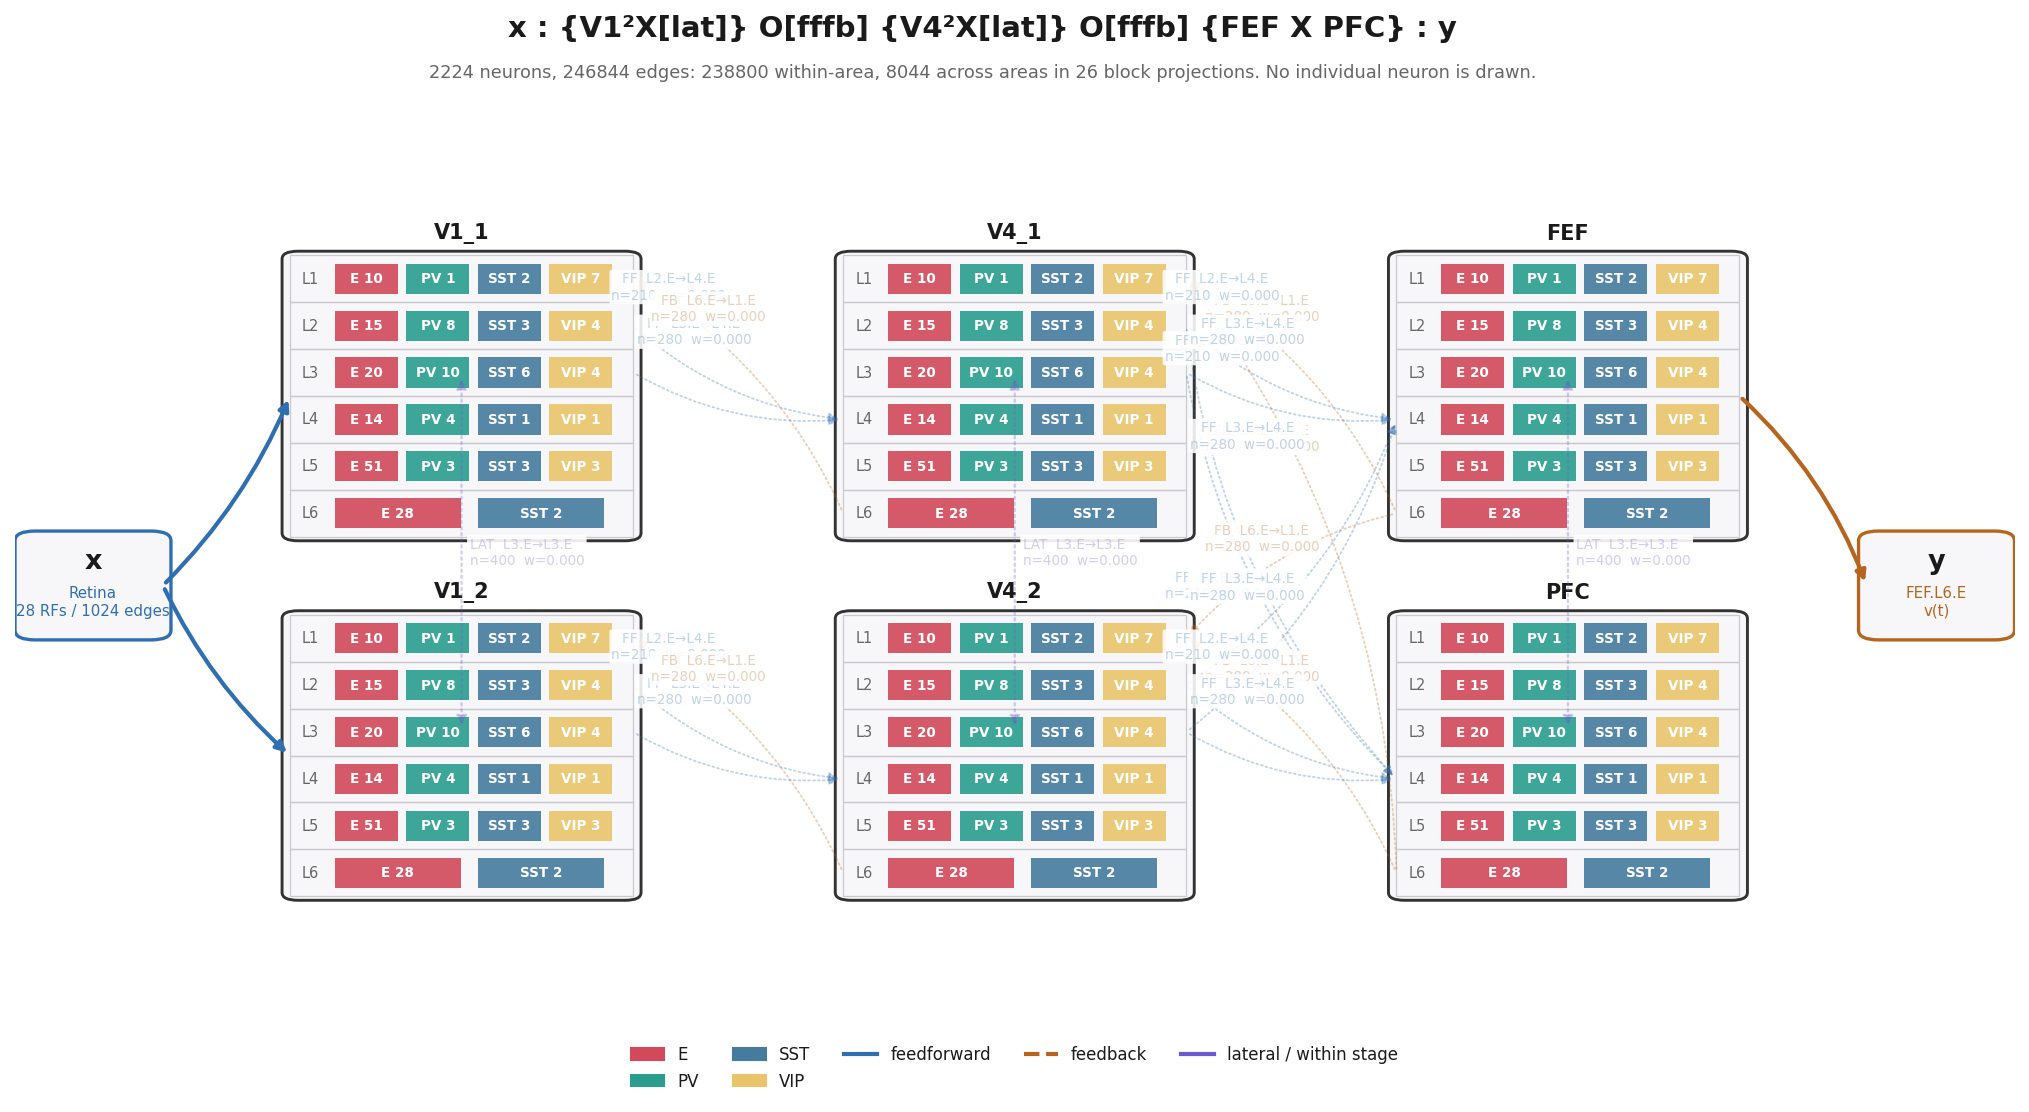
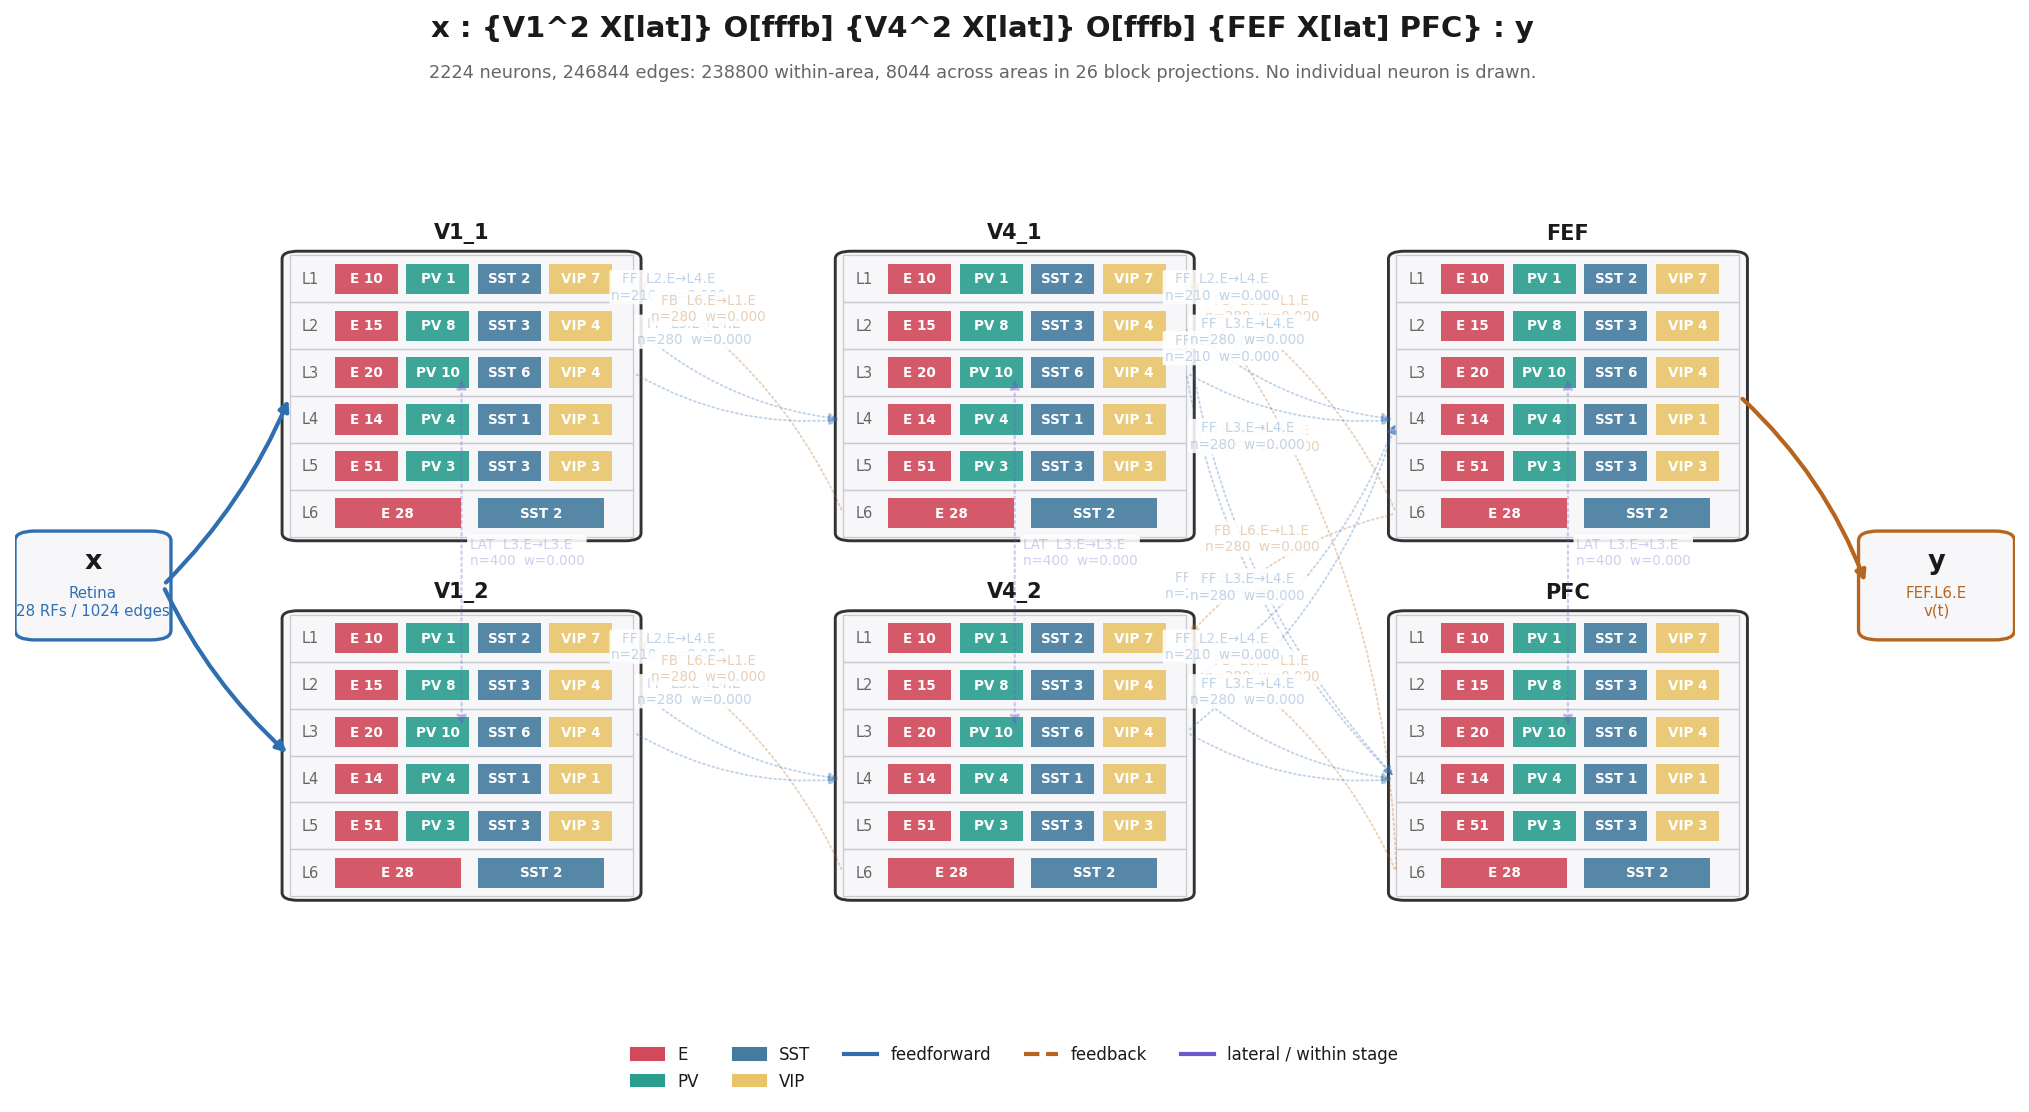
SCI-EI-REGIME-1 V0/V1: TFNE title single-sourced to architecture labels; V0 regenerated identical construction; V1 initial raster probed

Changed region(s): [[0.2173, 0.0, 0.7452, 0.0612]]

diff --git a/scripts/render_visualization_contract.py b/scripts/render_visualization_contract.py
@@ -28,7 +28,7 @@ from jomission.harness import validate as V  # noqa: E402
 from jomission.visualization import contract as VC  # noqa: E402
 
 DEFAULT_DRIVER = "scripts/whole_system_causal_arm.py"
-TITLE = "x : {V1²X[lat]} O[fffb] {V4²X[lat]} O[fffb] {FEF X PFC} : y"
+TITLE = VC.TFNE_TITLE
 
 
 def load_driver(path: str):
